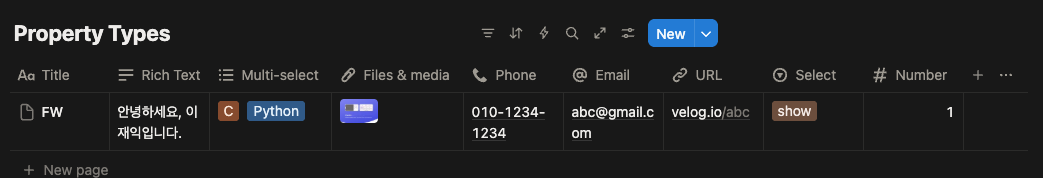
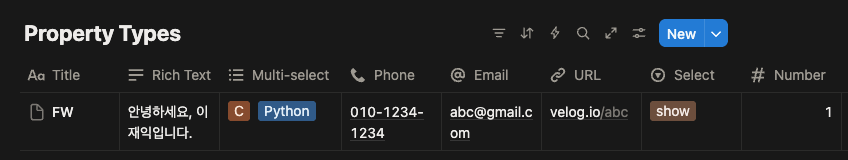
Fix: Notion의 File&Media URL이 만료되어 프로필 사진이 기본 이미지로 나오는 문제
- Notion DB에 사진을 넣지 않고, 프로필 사진을 repo에 포함시키는 방식으로 변경

diff --git a/src/lib/notion.ts b/src/lib/notion.ts
@@ -1,7 +1,6 @@
 import { Client } from '@notionhq/client';
 import { ResumeData, PersonalInfoDB, SkillDB, CoreCompetencyDB, WorkSummaryDB, WorkAchievementDB, ProjectDB, PortfolioDB, ValueDB, OtherToolDB, EducationDB, CertificationDB, MilitaryServiceDB } from '@/types';
 import type { PageObjectResponse } from '@notionhq/client/build/src/api-endpoints';
-import { downloadAndSaveImage, isNotionImageUrl } from './image-downloader';
 
 // Notion API 클라이언트 초기화
 const notion = new Client({
@@ -11,31 +10,6 @@ const notion = new Client({
 // 정렬을 위한 기본값
 const DEFAULT_ORDER_VALUE = 999;
 
-/**
- * Notion 이미지 URL을 안전하게 처리하는 함수
- * Build-time에 이미지를 다운로드하여 정적 파일로 저장
- */
-async function processImageUrl(url: string | null): Promise<string | null> {
-    if (!url) return null;
-
-    // Notion 이미지 URL인지 확인
-    if (isNotionImageUrl(url)) {
-        console.log(`🔄 Processing Notion image: ${url}`);
-
-        // Build-time에 이미지 다운로드하여 저장
-        const staticPath = await downloadAndSaveImage(url);
-
-        if (staticPath) {
-            console.log(`✅ Image processed: ${url} → ${staticPath}`);
-            return staticPath;
-        } else {
-            console.warn(`❌ Failed to process image: ${url}`);
-            return null;
-        }
-    }
-
-    return url;
-}
 
 
 // Notion 데이터베이스 설정을 위한 타입 정의
@@ -220,7 +194,9 @@ function extractNumber(property: any): number {
 
 // Notion Files 프로퍼티에서 파일 URL 추출
 async function extractFiles(property: any): Promise<string> {
-    if (!property || !property.files || property.files.length === 0) return '';
+    if (!property || !property.files || property.files.length === 0) {
+        return '';
+    }
 
     const file = property.files[0];
     let url = '';
@@ -229,11 +205,11 @@ async function extractFiles(property: any): Promise<string> {
         url = file.external.url;
     } else if (file.type === 'file' && file.file?.url) {
         url = file.file.url;
+    } else {
+        return '';
     }
 
-    // 이미지 URL 처리 (Build-time 다운로드)
-    const processedUrl = await processImageUrl(url);
-    return processedUrl || '';
+    return url;
 }
 
 // Notion 페이지 유효성 검사
@@ -261,7 +237,6 @@ const PROPERTY_MAPPINGS: Record<string, PropertyMapping> = {
         email: 'email', // 이메일 (Email)
         phone: 'phone', // 전화번호 (Phone Number)
         location: 'location', // 위치 (Rich Text)
-        photo: 'photo', // 프로필 사진 (Files & media)
         introduction: 'introduction', // 짧은 소개 (Rich Text)
         github: 'github', // 깃허브 (URL)
         linkedin: 'linkedin', // 링크드인 (URL)

diff --git a/src/components/sections/ContactInfo.tsx b/src/components/sections/ContactInfo.tsx
@@ -1,9 +1,10 @@
 'use client';
 
+import { useState } from 'react';
+
 interface ContactInfoProps {
   email: string;
   phone: string;
-  photo?: string;
   blog?: {
     url: string;
     display: string;
@@ -14,29 +15,26 @@ interface ContactInfoProps {
   };
 }
 
-export default function ContactInfo({ email, phone, photo, blog, github }: ContactInfoProps) {
-  // photo는 이미 Notion API에서 처리된 정적 파일 경로
-  // 추가 URL 변환 불필요
+export default function ContactInfo({ email, phone, blog, github }: ContactInfoProps) {
+  // 프로필 사진은 repo 내 정적 파일로 관리
+  // public/images/profile.jpg 파일이 있으면 표시, 없으면 표시하지 않음
+  const [showPhoto, setShowPhoto] = useState(true);
+
+  const handleImageError = () => {
+    // 이미지 로드 실패 시 프로필 사진 섹션 자체를 숨김
+    setShowPhoto(false);
+  };
 
   return (
     <div className="margin-bottom-lg">
       <div className="contact-container">
-        {photo && (
+        {showPhoto && (
           <div className="photo-container">
             <img
-              src={photo}
+              src="/images/profile.jpg"
               alt="Profile"
               className="profile-photo"
-              onError={(e) => {
-                console.error('Image load error:', photo);
-                console.error('Error details:', e);
-                // 이미지 로딩 실패 시 기본 이미지로 대체
-                const target = e.target as HTMLImageElement;
[1 lines of base64/hex data omitted]
-              }}
-              onLoad={() => {
-                console.log('Image loaded successfully:', photo);
-              }}
+              onError={handleImageError}
             />
           </div>
         )}

diff --git a/src/app/page.tsx b/src/app/page.tsx
@@ -75,7 +75,6 @@ export default async function NotionResumePage() {
     const transformContactInfo = (personalInfoDB: any) => ({
         email: personalInfoDB.email,
         phone: personalInfoDB.phone,
-        photo: personalInfoDB.photo,
         // 웹사이트/깃허브 링크를 URL과 표시용 텍스트로 분리
         ...(personalInfoDB.website && {
             blog: {

diff --git a/src/types/index.ts b/src/types/index.ts
@@ -5,7 +5,6 @@ export interface PersonalInfoDB {
     email: string;
     phone: string;
     location: string;
-    photo?: string;
     introduction?: string;
     github?: string;
     linkedin?: string;
